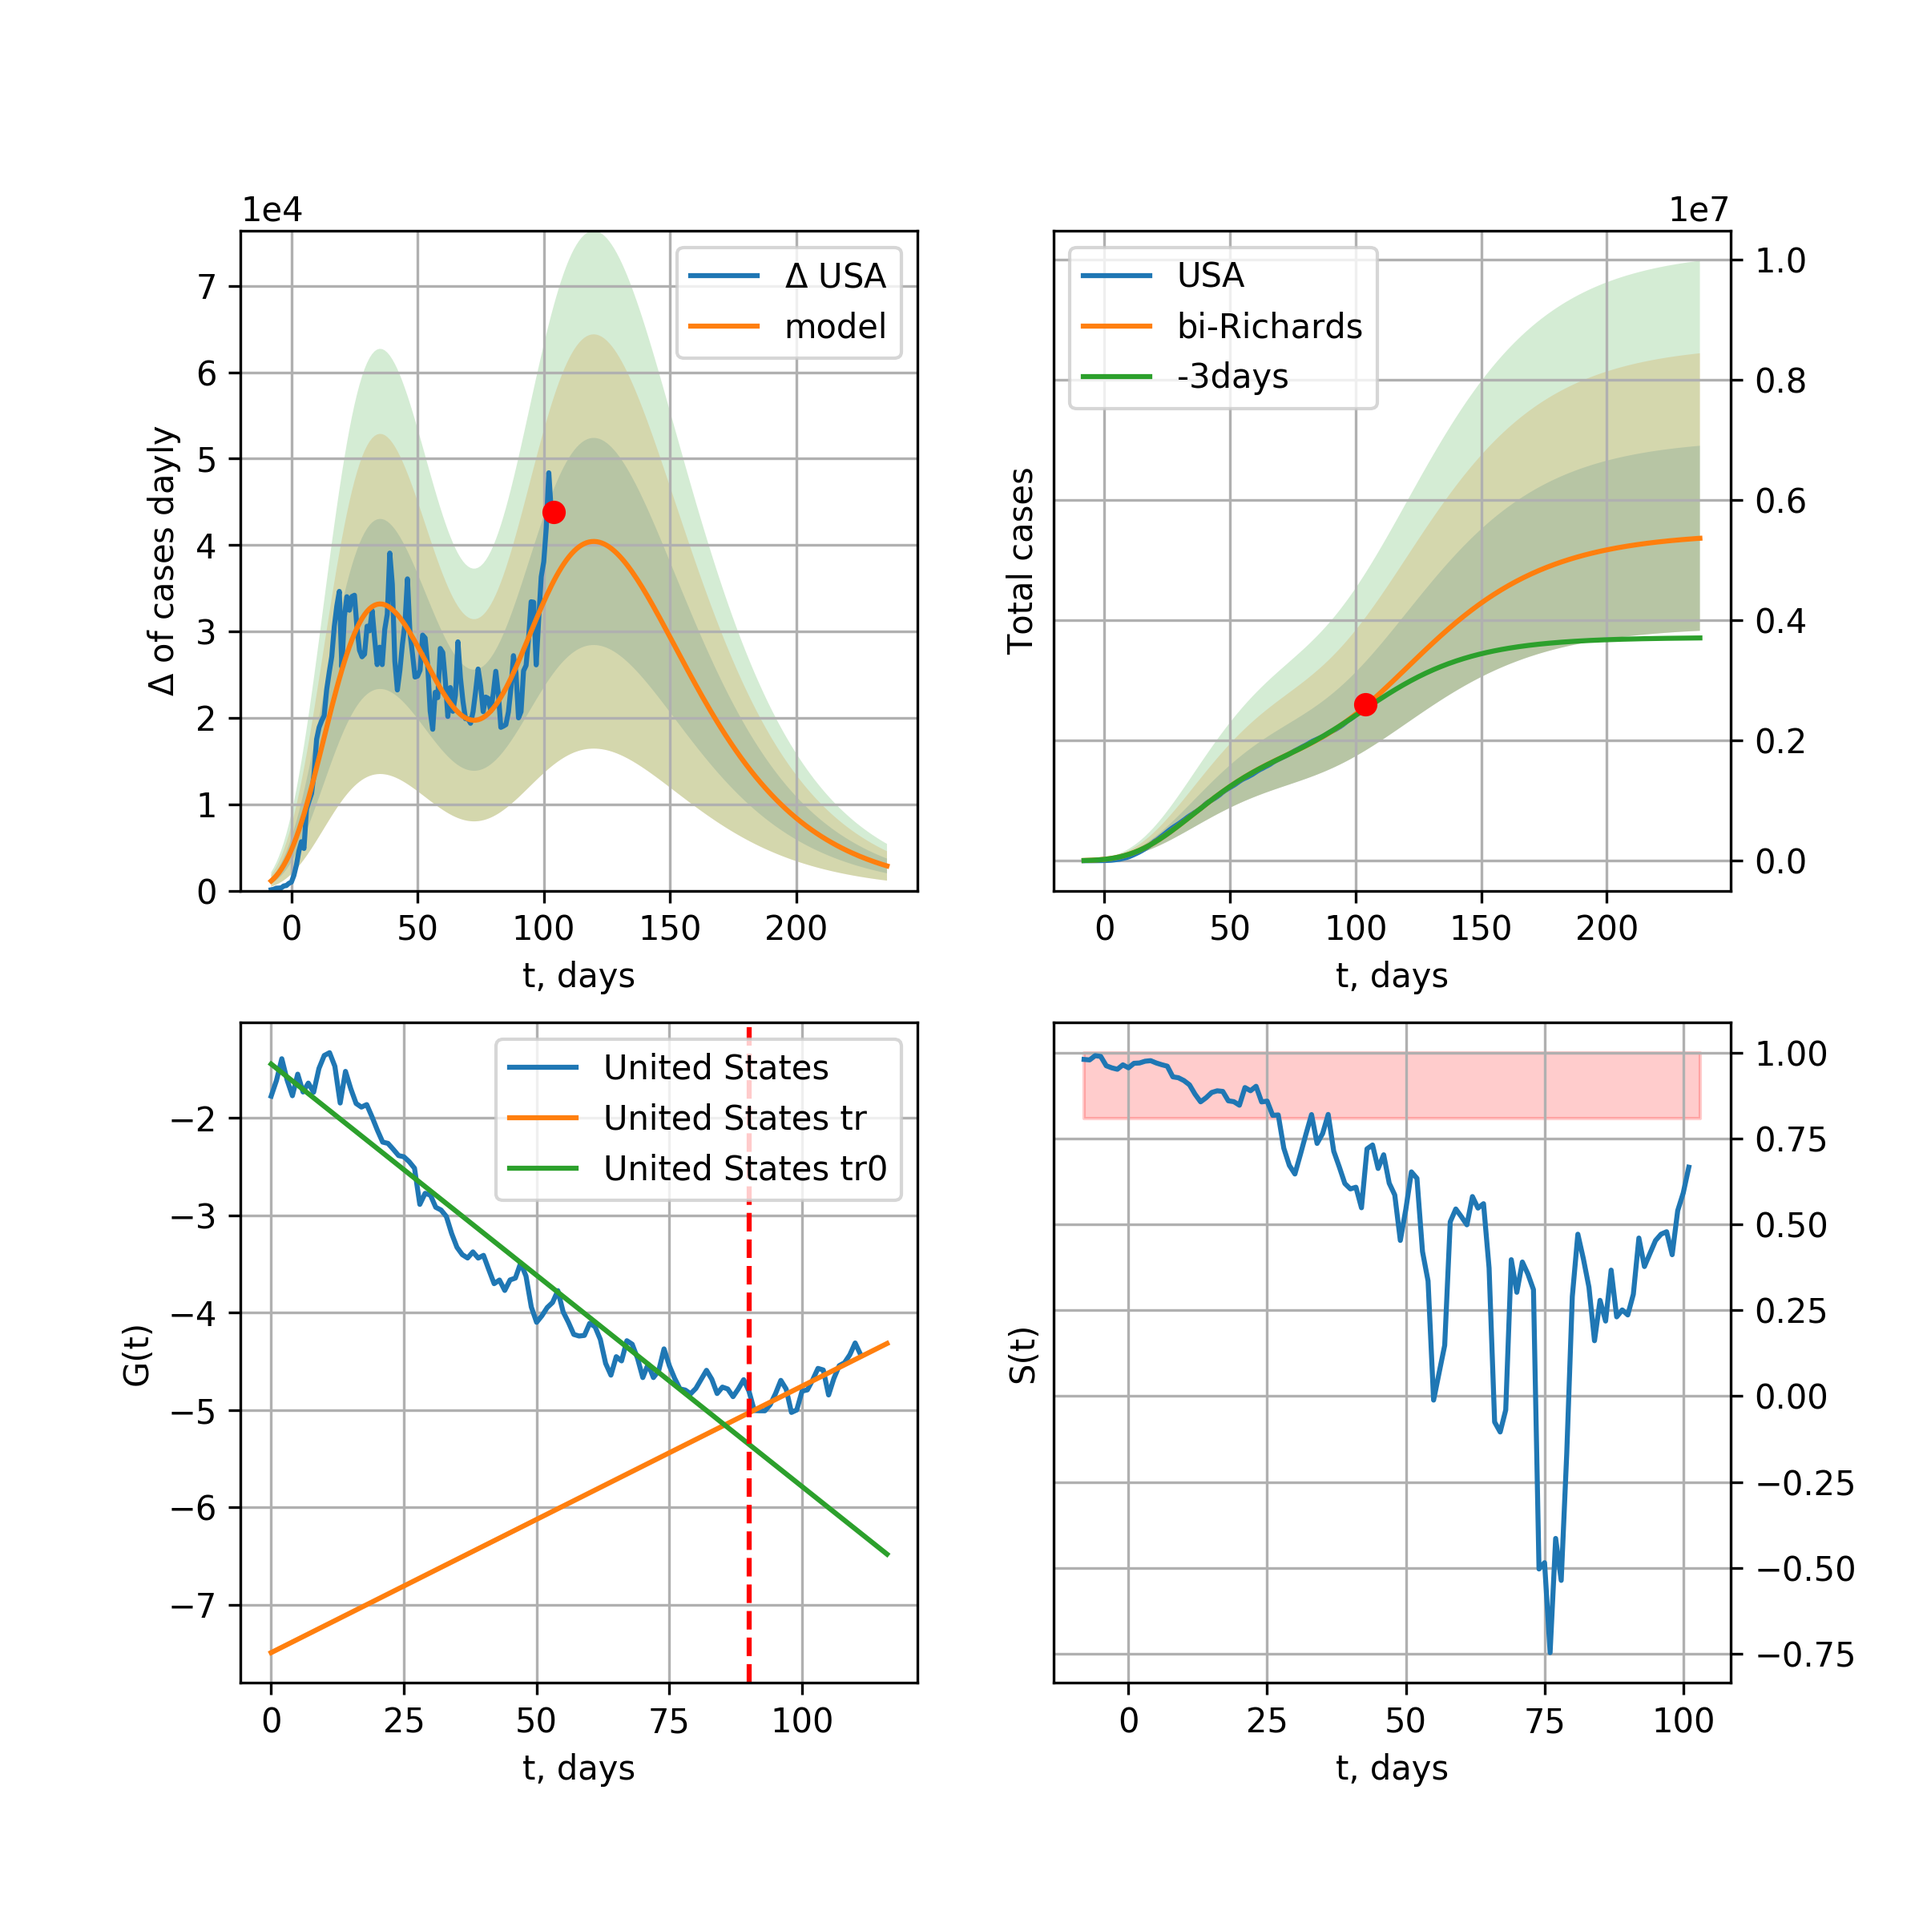
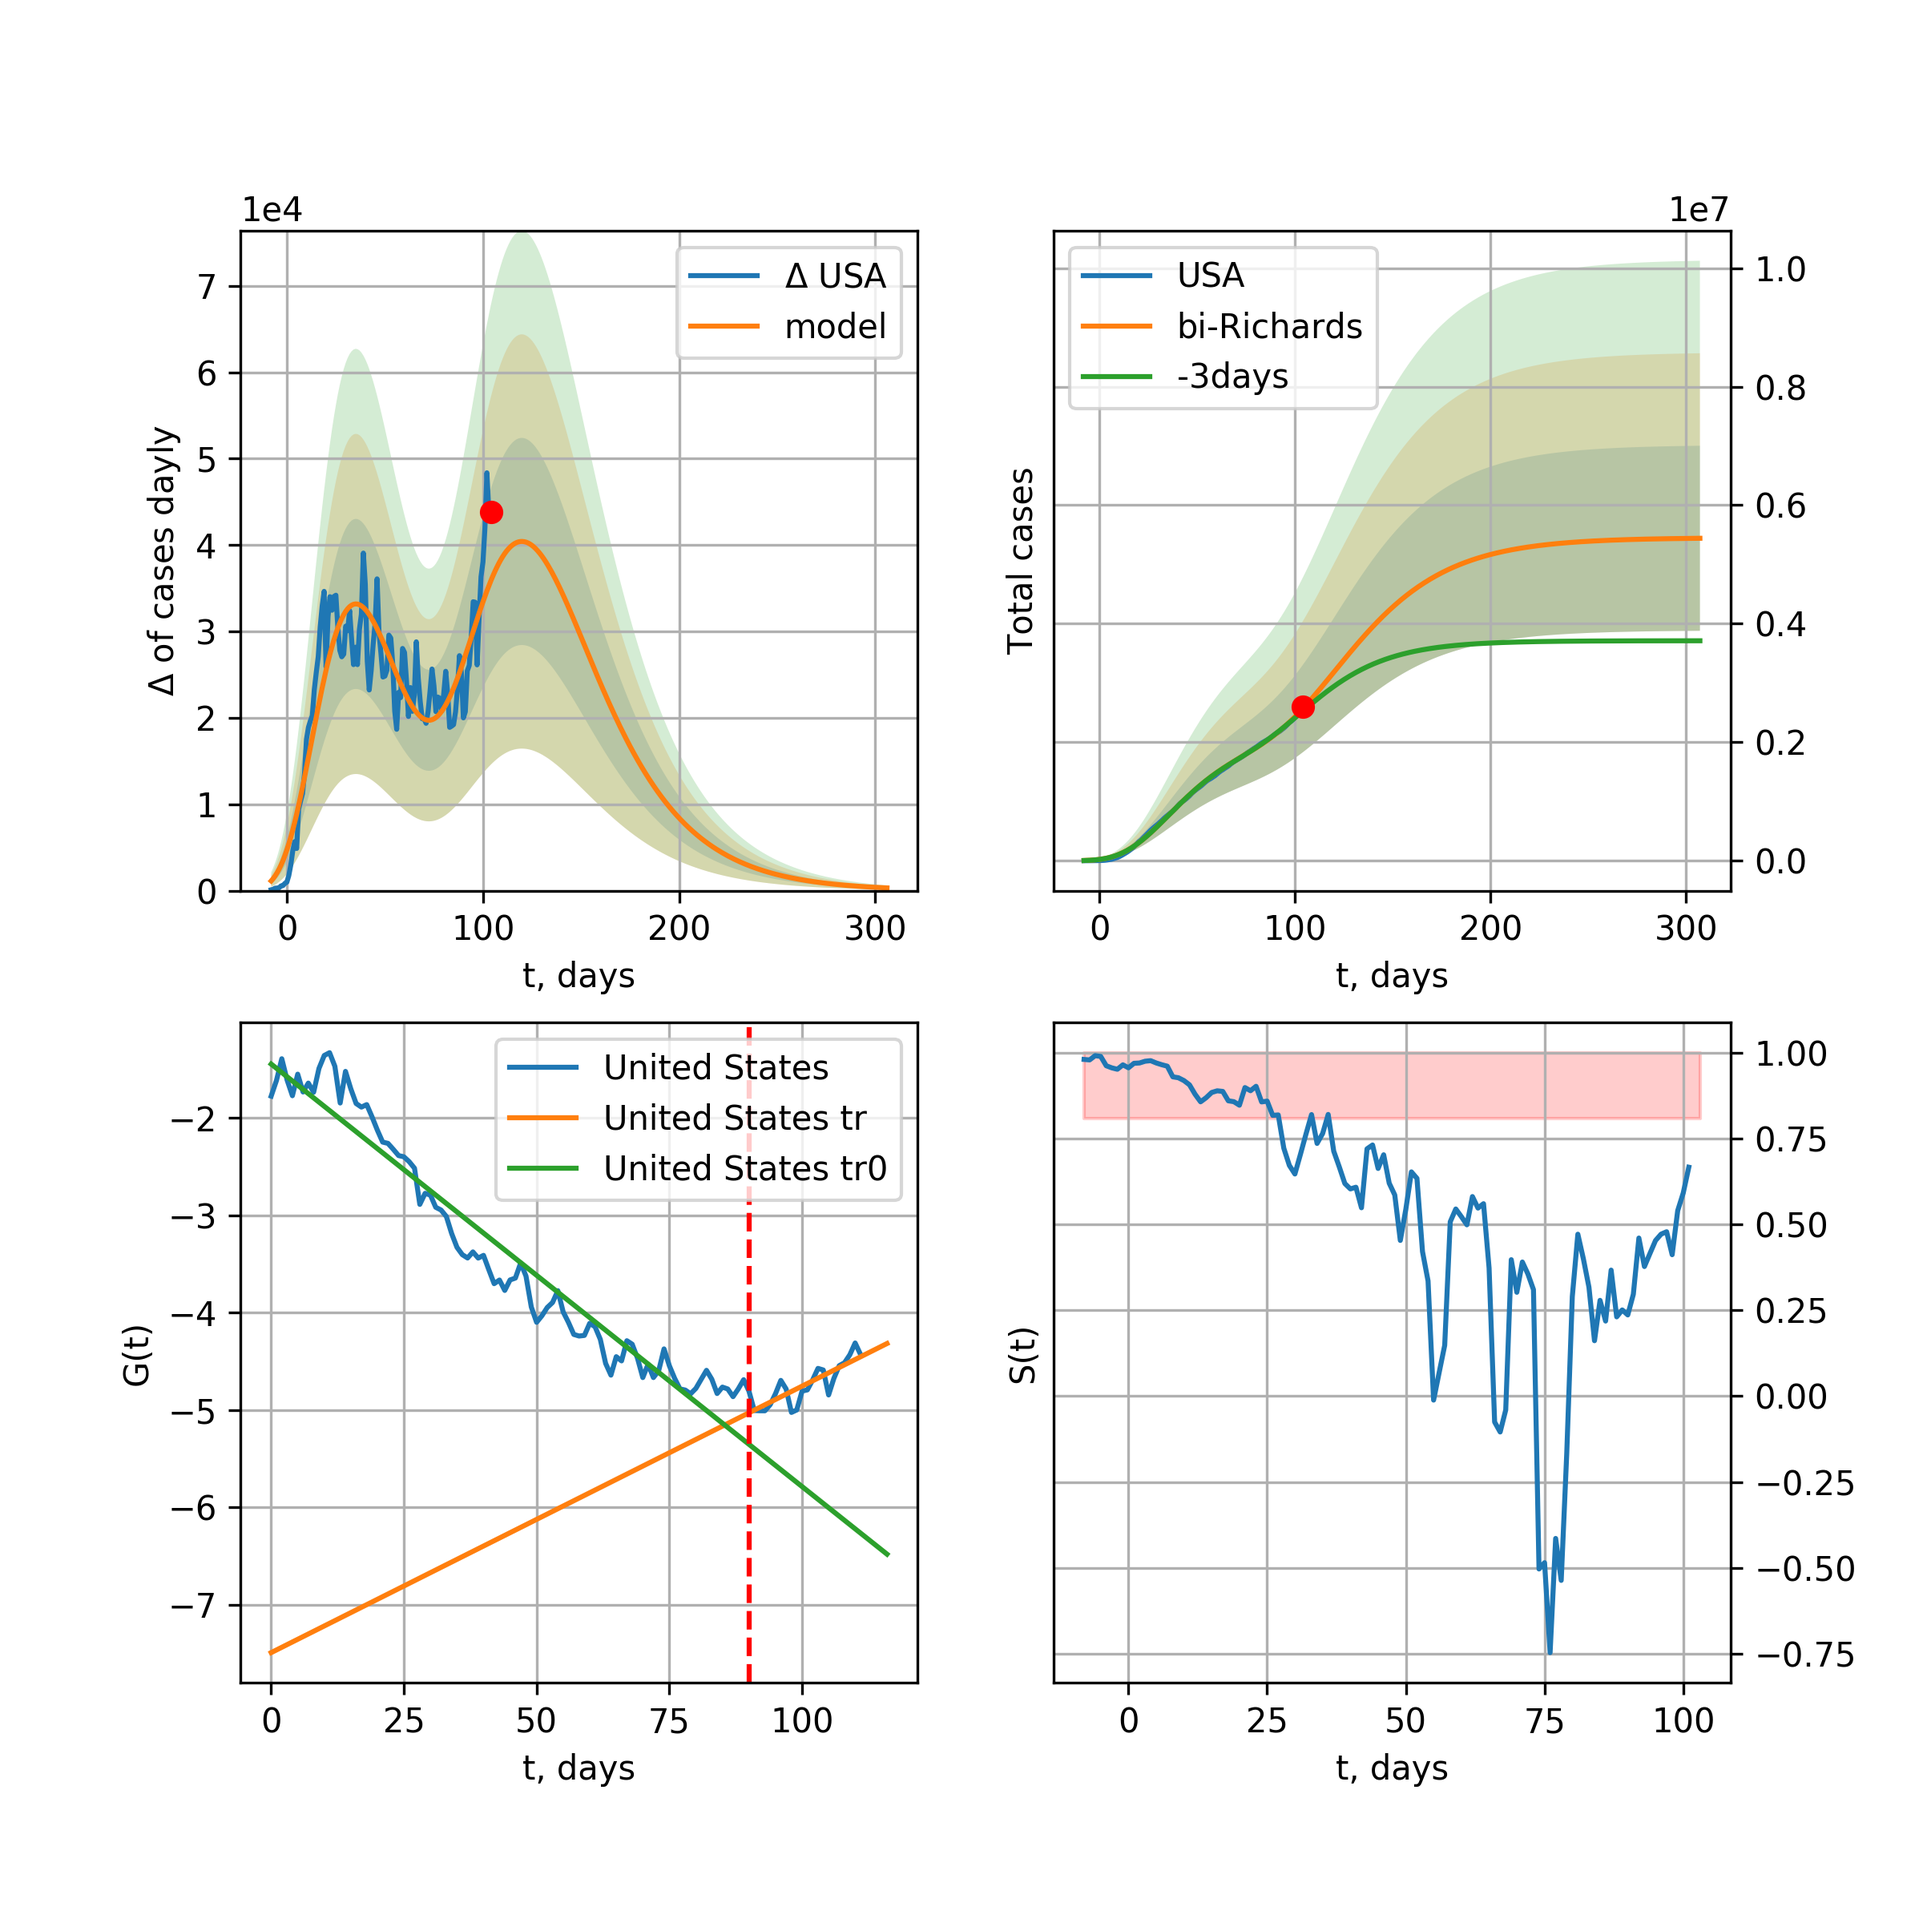
USA renew 2020-06-27

diff --git a/_site/index.html b/_site/index.html
@@ -201,10 +201,10 @@ trend coefficient of determination: 0.973493 <br />
 model: bi-Richards<br />
 coeffs: [3.33614764e+06 1.34513248e+00 3.59782151e+00 2.34071584e-02]<br />
 rational stdev: 0.286890<br />
-forecast at the end of period: +133 days<br />
-	 deltaDaycases: 2866<br />
-	 total cases: 5360823 ± 1537964<br />
-	 total death: 264559 ± 227697<br />
+forecast at the end of period: +203 days<br />
+	 deltaDaycases: 323<br />
+	 total cases: 5441496 ± 1561108<br />
+	 total death: 268540 ± 231123<br />
 bi-Richards approximation splitting point: 90<br />
 trend coefficient of determination: 0.944898 <br />
  intercept: -1.448098 <br />
